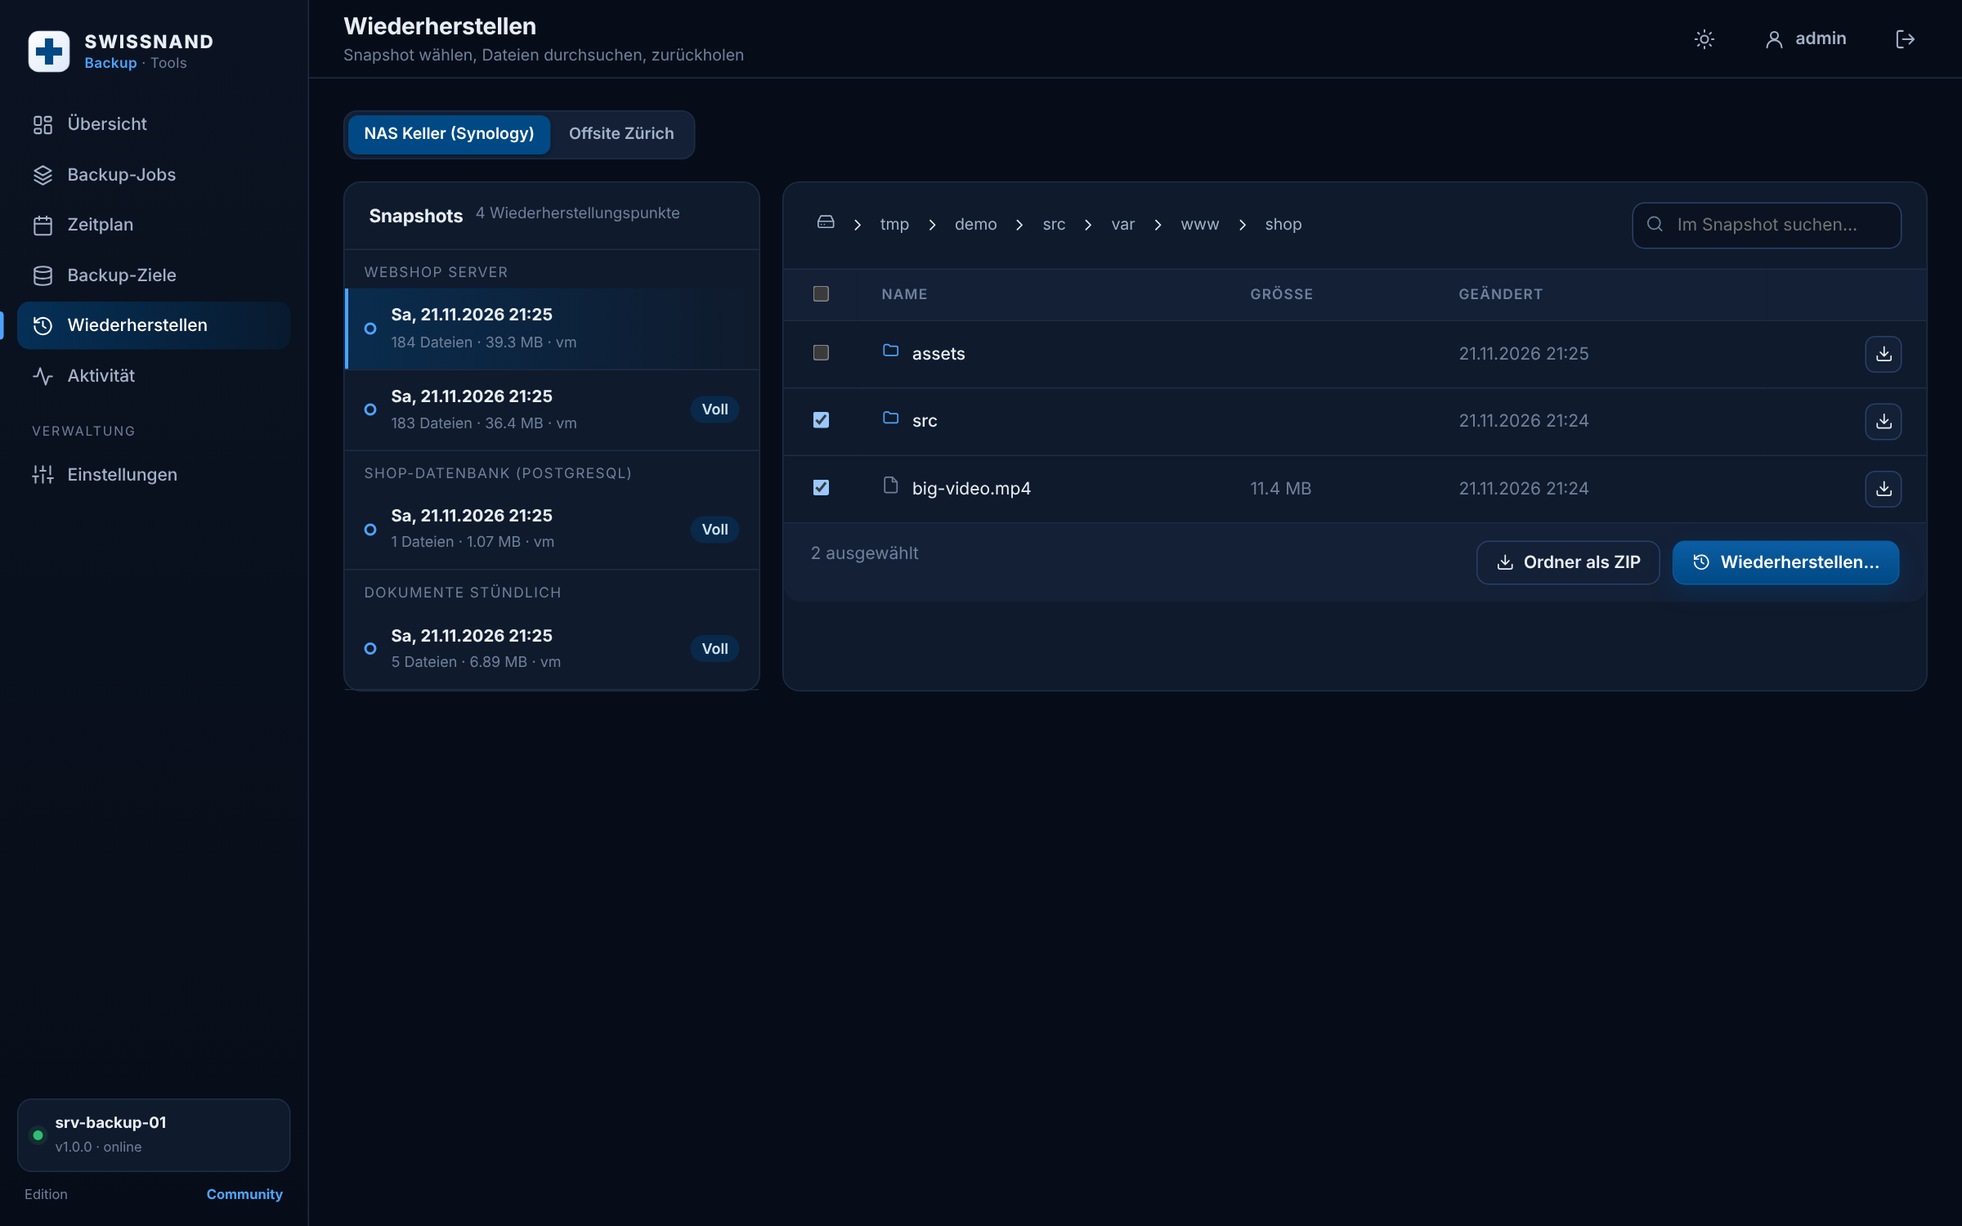
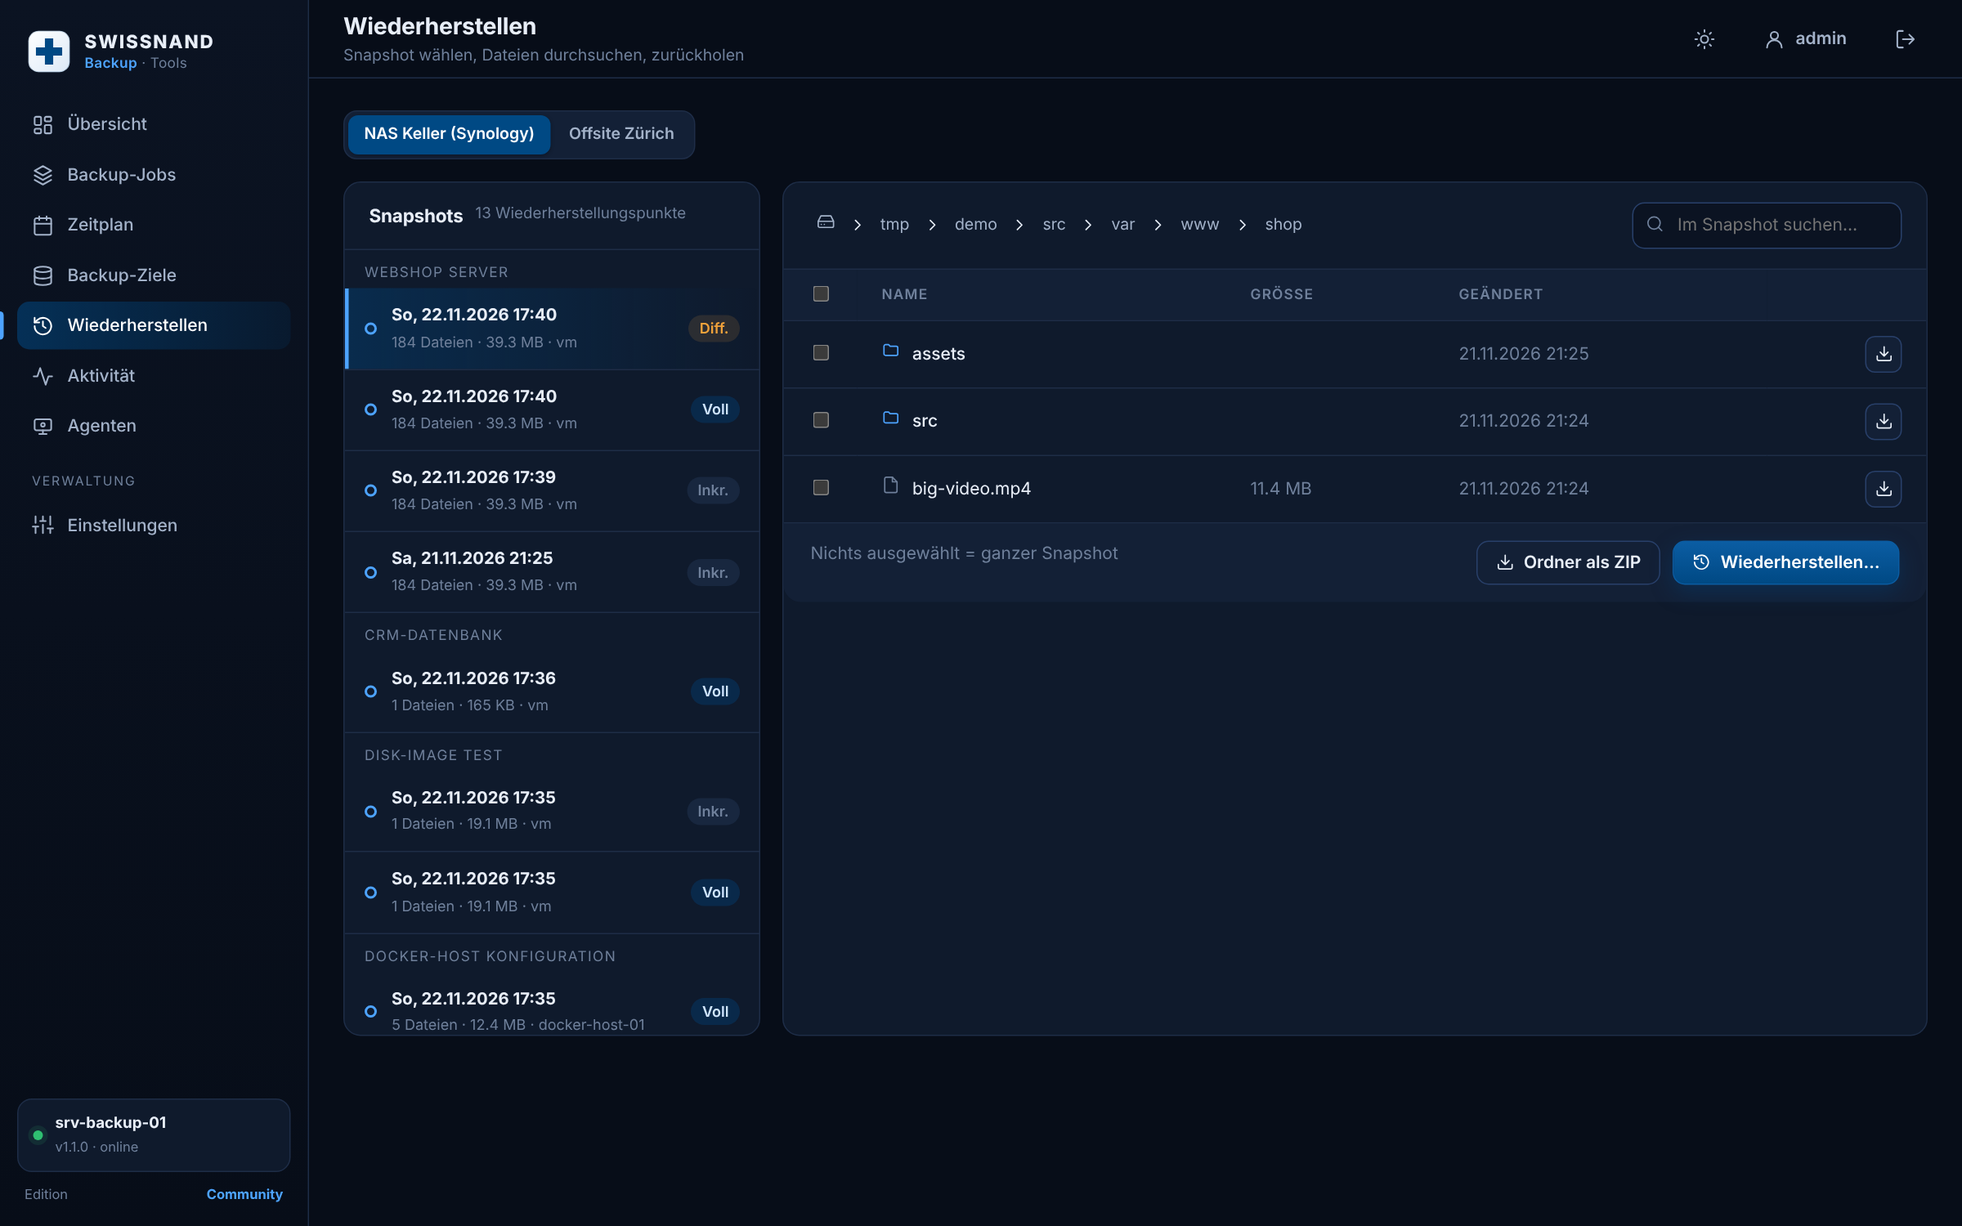
Backup-Modi: Vollbackup, inkrementell, differenziell
Claude-Session: https://claude.ai/code/session_01QtuMZ4hJmm3A6TxjFoHmLo

diff --git a/internal/server/web/app.js b/internal/server/web/app.js
@@ -609,8 +609,8 @@ async function openJobWizard(id, preset) {
       return `<h2>${job.type === 'copy' ? 'Quelle & Ziel der Kopie' : 'Backup-Ziel'}</h2><p class="lead">${job.type === 'copy' ? '3-2-1-Regel: 3 Kopien, 2 Medien, 1 Kopie ausser Haus. Die Daten werden für das Ziel neu verschlüsselt.' : 'Alle Daten werden vor dem Upload mit AES-256-GCM verschlüsselt.'}</p>
         <div class="section">${field(job.type === 'copy' ? 'Quell-Repository' : 'Ziel', sel(job, 'repoId', repoOpts, repoOpts[0]?.[0]))}
         ${job.type === 'copy' ? field('Ziel-Repository', sel(job, 'targetRepo', repoOpts, repoOpts[1]?.[0])) + field('Nur Snapshots dieses Jobs kopieren', sel(job, 'copyFilter', [['', 'Alle Jobs'], ...jobs.filter((x) => x.type === 'backup').map((x) => [x.id, x.name])])) : ''}</div>
-        ${job.type === 'backup' ? `<div class="section"><h4>${icon('zap', 'sm')}Backup-Modus</h4><div class="chips">${[['incremental', 'Forever-Incremental (empfohlen)'], ['full', 'Immer aktives Vollbackup']].map(([v, l]) => `<label class="chip"><input type="radio" name="options.mode" value="${v}"${(job.options.mode || 'incremental') === v ? ' checked' : ''}><span>${l}</span></label>`).join('')}</div>
-        <p class="muted" style="font-size:12.5px">Jeder Snapshot ist ein vollständiger Wiederherstellungspunkt (synthetisches Vollbackup). Inkrementell liest nur geänderte Dateien, ein aktives Vollbackup liest alles neu.</p>
+        ${job.type === 'backup' ? `<div class="section"><h4>${icon('zap', 'sm')}Backup-Modus</h4><div class="types" style="grid-template-columns:repeat(3,1fr);margin-bottom:14px">${[['full', 'Vollbackup', 'Liest bei jedem Lauf alle Dateien neu und prüft sie. Am langsamsten, aber am gründlichsten.'], ['incremental', 'Inkrementell', 'Nur Änderungen seit dem letzten Lauf. Am schnellsten – empfohlen für tägliche oder stündliche Läufe.'], ['differential', 'Differenziell', 'Alle Änderungen seit dem letzten Vollbackup. Kombiniert mit einem wöchentlichen Vollbackup.']].map(([v, l, d]) => `<label class="type ${(job.options.mode || 'incremental') === v ? 'on' : ''}" style="padding:14px"><input type="radio" name="options.mode" value="${v}"${(job.options.mode || 'incremental') === v ? ' checked' : ''} data-rerender style="position:absolute;opacity:0"><b>${l}</b><span>${d}</span>${v === 'incremental' ? '<span class="badge brand tag">Empfohlen</span>' : ''}</label>`).join('')}</div>
+        <p class="muted" style="font-size:12.5px">Dank Deduplizierung ist <b>jeder</b> Snapshot ein vollständiger Wiederherstellungspunkt – es gibt keine Ketten, die beim Restore zusammengesetzt werden müssen, und ein beschädigtes Zwischenglied gefährdet keine späteren Backups. Gespeichert werden in allen Modi nur neue Datenblöcke.</p>
         ${field('Zusätzlich periodisches Vollbackup', sel(job, 'schedule.fullEvery', [['', 'Nie'], ['weekly:0', 'Jeden Sonntag'], ['weekly:6', 'Jeden Samstag'], ['monthly:1', 'Am 1. jedes Monats']]))}</div>` : ''}`;
     },
     Zeitplan: () => {
@@ -684,7 +684,7 @@ async function openJobWizard(id, preset) {
     wiz.innerHTML = `<div class="steps">${STEPS.map((s, i) => skip(i) ? '' : `<div class="step ${i === step ? 'on' : i < step ? 'done' : ''}" data-step="${i}"><span class="n">${i < step ? '✓' : i + 1}</span>${s}</div>`).join('')}</div><div class="wiz-body"><form id="wb">${views[name]()}</form></div>`;
     foot.innerHTML = `<button class="btn" data-close>Abbrechen</button><div style="flex:1"></div>${step > 0 ? `<button class="btn" id="wprev">${icon('chev', 'sm')}Zurück</button>` : ''}${step < STEPS.length - 1 ? `<button class="btn primary" id="wnext">Weiter</button>` : `<button class="btn primary" id="wsave">${icon('check', 'sm')}${id ? 'Speichern' : 'Job erstellen'}</button>`}`;
     if (step > 0) $('#wprev', foot).querySelector('svg').style.transform = 'rotate(180deg)';
-    $$('.type', wiz).forEach((el) => el.onclick = () => { typeKey = el.dataset.type; const t = TYPES[typeKey]; job.type = t.t; if (t.k) job.source.kind = t.k; render(); });
+    $$('.type[data-type]', wiz).forEach((el) => el.onclick = () => { typeKey = el.dataset.type; const t = TYPES[typeKey]; job.type = t.t; if (t.k) job.source.kind = t.k; render(); });
     $$('[data-step]', wiz).forEach((el) => el.onclick = () => { collect(); step = +el.dataset.step; render(); });
     $$('[data-rerender]', wiz).forEach((el) => el.onchange = () => { collect(); render(); });
     $$('[data-fill]', wiz).forEach((el) => el.onclick = () => { const f = $(`[name="${el.dataset.fill}"]`, wiz); f.value = el.dataset.val; f.dispatchEvent(new Event('input')); });
@@ -860,7 +860,7 @@ async function pgRestore(args) {
     $('#sc').textContent = snaps.length + ' Wiederherstellungspunkte';
     const groups = {};
     snaps.forEach((s) => { const k = s.jobName || s.kind; (groups[k] = groups[k] || []).push(s); });
-    $('#slist').innerHTML = snaps.length ? Object.entries(groups).map(([g, list]) => `<div style="padding:10px 16px 4px;font-size:11.5px;text-transform:uppercase;letter-spacing:.08em;color:var(--text-3)">${esc(g)}</div>` + list.map((s) => `<div class="snap ${cur && cur.id === s.id ? 'on' : ''}" data-snap="${s.id}"><span class="tl"></span><div class="grow"><b>${WD[new Date(s.time).getDay()]}, ${dt(s.time, true)}</b><span>${s.stats.files} Dateien · ${bytes(s.stats.bytes)} · ${s.host}${s.origin ? ' · Kopie' : ''}</span></div>${s.mode === 'full' ? '<span class="badge brand">Voll</span>' : ''}</div>`).join('')).join('') : `<div class="empty">Noch keine Snapshots</div>`;
+    $('#slist').innerHTML = snaps.length ? Object.entries(groups).map(([g, list]) => `<div style="padding:10px 16px 4px;font-size:11.5px;text-transform:uppercase;letter-spacing:.08em;color:var(--text-3)">${esc(g)}</div>` + list.map((s) => `<div class="snap ${cur && cur.id === s.id ? 'on' : ''}" data-snap="${s.id}"><span class="tl"></span><div class="grow"><b>${WD[new Date(s.time).getDay()]}, ${dt(s.time, true)}</b><span>${s.stats.files} Dateien · ${bytes(s.stats.bytes)} · ${s.host}${s.origin ? ' · Kopie' : ''}</span></div>${{ full: '<span class="badge brand">Voll</span>', differential: '<span class="badge warn">Diff.</span>', incremental: '<span class="badge">Inkr.</span>' }[s.mode] || ''}</div>`).join('')).join('') : `<div class="empty">Noch keine Snapshots</div>`;
     $$('[data-snap]').forEach((el) => el.onclick = () => { cur = snaps.find((s) => s.id === el.dataset.snap); path = ''; q = ''; picked.clear(); $$('.snap').forEach((x) => x.classList.toggle('on', x === el)); browse(); });
     if (cur) browse();
   };

diff --git a/internal/repo/backup.go b/internal/repo/backup.go
@@ -46,11 +46,14 @@ type BackupOptions struct {
 	ExcludeCaches     bool
 	OneFileSystem     bool
 	Full              bool // ignore parent: re-read every file ("active full")
-	Workers           int
-	Host, JobID       string
-	JobName, Kind     string
-	Tags              []string
-	Streams           []Stream
+	// Differential compares against the last FULL snapshot of the job
+	// instead of the last snapshot (classic differential backup).
+	Differential  bool
+	Workers       int
+	Host, JobID   string
+	JobName, Kind string
+	Tags          []string
+	Streams       []Stream
 	// ReadPath maps an original absolute path to the path that is actually
 	// read (used for VSS shadow copies / LVM snapshots). nil = identity.
 	ReadPath func(string) string
@@ -219,7 +222,8 @@ func (r *Repo) Backup(ctx context.Context, opt BackupOptions) (*Snapshot, error)
 	if !opt.Full {
 		if snaps, err := r.Snapshots(ctx); err == nil {
 			for _, s := range snaps {
-				if s.Host == opt.Host && s.JobID == opt.JobID && s.Kind == opt.Kind && s.Origin == "" {
+				if s.Host == opt.Host && s.JobID == opt.JobID && s.Kind == opt.Kind && s.Origin == "" &&
+					(!opt.Differential || s.Mode == "full" || s.Mode == "") {
 					if nodes, err := r.LoadTree(ctx, s); err == nil {
 						b.parent = make(map[string]*Node, len(nodes))
 						for _, n := range nodes {
@@ -228,7 +232,11 @@ func (r *Repo) Backup(ctx context.Context, opt BackupOptions) (*Snapshot, error)
 							}
 						}
 						parentID = s.ID
-						b.log("info", "Basis-Snapshot %s (%s) – nur Änderungen werden gelesen", s.ID[:8], s.Time.Local().Format("02.01.2006 15:04"))
+						if opt.Differential {
+							b.log("info", "Differenziell: Basis ist das letzte Vollbackup %s (%s)", s.ID[:8], s.Time.Local().Format("02.01.2006 15:04"))
+						} else {
+							b.log("info", "Inkrementell: Basis-Snapshot %s (%s) – nur Änderungen seit dem letzten Lauf werden gelesen", s.ID[:8], s.Time.Local().Format("02.01.2006 15:04"))
+						}
 					}
 					break
 				}
@@ -293,6 +301,9 @@ func (r *Repo) Backup(ctx context.Context, opt BackupOptions) (*Snapshot, error)
 	b.stats.StoredBytes += b.tw.stored
 	b.stats.DurationMs = time.Since(start).Milliseconds()
 	mode := "incremental"
+	if opt.Differential {
+		mode = "differential"
+	}
 	if opt.Full || parentID == "" {
 		mode = "full"
 	}

diff --git a/cmd/snbackup/main.go b/cmd/snbackup/main.go
@@ -421,7 +421,8 @@ func cmdBackup(args []string) {
 	fs.Var(&ex, "exclude", "Ausschlussmuster (mehrfach)")
 	exFile := fs.String("exclude-file", "", "Datei mit Ausschlussmustern")
 	fs.Var(&tags, "tag", "Tag (mehrfach)")
-	full := fs.Bool("full", false, "Aktives Vollbackup")
+	full := fs.Bool("full", false, "Vollbackup: alle Dateien neu lesen")
+	diff := fs.Bool("differential", false, "Differenziell: Änderungen seit dem letzten Vollbackup")
 	oneFS := fs.Bool("one-file-system", false, "Nicht in andere Dateisysteme wechseln")
 	caches := fs.Bool("exclude-caches", false, "Ordner mit CACHEDIR.TAG ausschliessen")
 	larger := fs.Int("exclude-larger-than", 0, "Dateien grösser als N MB ausschliessen")
@@ -449,7 +450,7 @@ func cmdBackup(args []string) {
 		die(err)
 	}
 	defer lk.Unlock()
-	opt := repo.BackupOptions{Paths: paths, Excludes: ex, Full: *full, OneFileSystem: *oneFS, ExcludeCaches: *caches, Workers: *workers, JobID: *job, JobName: *job, Tags: tags, Progress: progressPrinter(),
+	opt := repo.BackupOptions{Paths: paths, Excludes: ex, Full: *full, Differential: *diff && !*full, OneFileSystem: *oneFS, ExcludeCaches: *caches, Workers: *workers, JobID: *job, JobName: *job, Tags: tags, Progress: progressPrinter(),
 		Log: func(level, msg string) {
 			if level != "info" {
 				fmt.Fprintln(os.Stderr, "\r\x1b[K"+c("33", "! ")+msg)
@@ -494,9 +495,10 @@ func cmdSnapshots(args []string) {
 		die(err)
 	}
 	tw := tabwriter.NewWriter(os.Stdout, 0, 0, 2, ' ', 0)
-	fmt.Fprintln(tw, bold("ID\tZEIT\tHOST\tJOB\tART\tDATEIEN\tGRÖSSE\tPFADE"))
+	fmt.Fprintln(tw, bold("ID\tZEIT\tHOST\tJOB\tART\tMODUS\tDATEIEN\tGRÖSSE\tNEU\tPFADE"))
+	modes := map[string]string{"full": "voll", "incremental": "inkrementell", "differential": "differenziell"}
 	for _, s := range snaps {
-		fmt.Fprintf(tw, "%s\t%s\t%s\t%s\t%s\t%d\t%s\t%s\n", s.ID[:8], s.Time.Local().Format("02.01.2006 15:04"), s.Host, s.JobName, s.Kind, s.Stats.Files, human(s.Stats.Bytes), strings.Join(s.Paths, ", "))
+		fmt.Fprintf(tw, "%s\t%s\t%s\t%s\t%s\t%s\t%d\t%s\t%s\t%s\n", s.ID[:8], s.Time.Local().Format("02.01.2006 15:04"), s.Host, s.JobName, s.Kind, modes[s.Mode], s.Stats.Files, human(s.Stats.Bytes), human(s.Stats.NewBytes), strings.Join(s.Paths, ", "))
 	}
 	tw.Flush()
 	fmt.Println(dim(fmt.Sprintf("%d Snapshots", len(snaps))))

diff --git a/internal/repo/modes_test.go b/internal/repo/modes_test.go
@@ -1,0 +1,59 @@
+package repo
+
+import (
+	"context"
+	"os"
+	"path/filepath"
+	"testing"
+	"time"
+
+	"github.com/swissnand/snbackup/internal/backend"
+)
+
+// Full → incremental → differential: the differential run must compare
+// against the last full backup, the incremental run against the last run.
+func TestBackupModes(t *testing.T) {
+	ctx := context.Background()
+	dir := t.TempDir()
+	src := filepath.Join(dir, "src")
+	a := filepath.Join(src, "a.txt")
+	b := filepath.Join(src, "b.txt")
+	mkfile(t, a, 1000)
+	mkfile(t, b, 1000)
+	be, _ := backend.NewLocal(filepath.Join(dir, "repo"))
+	r, err := Init(ctx, be, "passwort-123456")
+	if err != nil {
+		t.Fatal(err)
+	}
+	opt := BackupOptions{Paths: []string{src}, JobID: "j"}
+	touch := func(p string) {
+		time.Sleep(20 * time.Millisecond)
+		mkfile(t, p, 1000)
+	}
+	full, _ := r.Backup(ctx, BackupOptions{Paths: opt.Paths, JobID: "j", Full: true})
+	if full.Mode != "full" {
+		t.Fatalf("mode %s", full.Mode)
+	}
+	touch(a)
+	inc, _ := r.Backup(ctx, opt)
+	if inc.Mode != "incremental" || inc.Stats.ChangedFile != 1 || inc.Parent != full.ID {
+		t.Fatalf("incremental: %s %+v", inc.Mode, inc.Stats)
+	}
+	touch(b)
+	inc2, _ := r.Backup(ctx, opt)
+	if inc2.Stats.ChangedFile != 1 || inc2.Parent != inc.ID {
+		t.Fatalf("incremental 2: %+v", inc2.Stats)
+	}
+	diff, _ := r.Backup(ctx, BackupOptions{Paths: opt.Paths, JobID: "j", Differential: true})
+	if diff.Mode != "differential" || diff.Parent != full.ID || diff.Stats.ChangedFile != 2 {
+		t.Fatalf("differential: %s parent=%s %+v", diff.Mode, diff.Parent, diff.Stats)
+	}
+	// Every snapshot restores completely on its own.
+	out := filepath.Join(dir, "out")
+	if _, err := r.Restore(ctx, diff, RestoreOptions{Target: out, Verify: true}); err != nil {
+		t.Fatal(err)
+	}
+	if _, err := os.Stat(filepath.Join(out, StoreName(b))); err != nil {
+		t.Fatal(err)
+	}
+}

diff --git a/internal/jobs/execute.go b/internal/jobs/execute.go
@@ -243,7 +243,7 @@ func (rc *runCtx) backup(ctx context.Context) (*outcome, error) {
 
 		opt := repo.BackupOptions{
 			Paths: j.Source.Paths, Excludes: j.Source.Excludes, ExcludeCaches: j.Source.ExcludeCaches,
-			OneFileSystem: j.Source.OneFileSystem, Full: rc.full, Workers: j.Options.Workers,
+			OneFileSystem: j.Source.OneFileSystem, Full: rc.full, Differential: !rc.full && j.Options.Mode == "differential", Workers: j.Options.Workers,
 			JobID: j.ID, JobName: j.Name, Kind: j.Source.Kind, Tags: j.Options.Tags,
 			Progress: rc.progress, Log: rc.log,
 		}
@@ -270,7 +270,8 @@ func (rc *runCtx) backup(ctx context.Context) (*outcome, error) {
 		}
 		st := snap.Stats
 		rc.logf2("info", "Snapshot %s: %d Dateien, %s gesamt, %s neu, %s übertragen", snap.ID[:8], st.Files, human(st.Bytes), human(st.NewBytes), human(st.StoredBytes))
-		out = &outcome{snapshot: snap.ID, stats: &st, message: fmt.Sprintf("%d Dateien · %s neu", st.Files, human(st.NewBytes))}
+		modeName := map[string]string{"full": "Vollbackup", "incremental": "inkrementell", "differential": "differenziell"}[snap.Mode]
+		out = &outcome{snapshot: snap.ID, stats: &st, message: fmt.Sprintf("%s · %d Dateien · %s neu", modeName, st.Files, human(st.NewBytes))}
 		release()
 		if !j.Retention.Empty() {
 			rc.phase("Aufbewahrung anwenden")

diff --git a/README.md b/README.md
@@ -32,6 +32,7 @@
 
 | Bereich | Möglichkeiten |
 |---|---|
+| **Backup-Modi** | **Vollbackup** (alles neu lesen), **inkrementell** (Änderungen seit dem letzten Lauf), **differenziell** (Änderungen seit dem letzten Vollbackup), kombinierbar mit automatischem Vollbackup wöchentlich/monatlich. Jeder Snapshot ist dank Deduplizierung ein vollständiger Wiederherstellungspunkt, ohne Ketten |
 | **Zentraler Backup-Server** | Agenten für Linux, Windows, Docker und Kubernetes (DaemonSet). Nur ausgehende HTTPS-Verbindungen, Registrierung per Einmal-Token, Zertifikats-Pinning. Jobs pro Rechner zuweisen, live verfolgen, abbrechen, Wiederherstellung direkt auf den Zielrechner. Agentenlos für Netzfreigaben und Datenbanken übers Netz |
 | **VMs & Bare Metal** | **Proxmox VE** (vzdump-Stream, dedupliziert), **Hyper-V** (Export-VM im laufenden Betrieb), **Disk-Images** von Disks und LVM-Volumes (optional per LVM-Snapshot), **Windows Bare Metal** über Windows Server-Sicherung |
 | **Backup-Varianten** | Datei-Backup (forever-incremental), aktives Vollbackup, periodisches Vollbackup (wöchentlich/monatlich), synthetische Vollbackups, **Spiegelung/Sync** mit Papierkorb, **Archiv** (.tar.gz, optional AES-256), **Backup-Kopie 3-2-1** auf ein zweites Ziel, **Integritätsprüfung**, **Bereinigung** |
@@ -66,6 +67,7 @@ Details zum Format und zum Melden von Sicherheitslücken: [SECURITY.md](SECURITY
 |---|---|
 | ![Agenten](docs/screenshots/16-agenten.png) **Agenten im ganzen Netz** | ![Agent hinzufügen](docs/screenshots/17-agent-hinzufuegen.png) **Agent hinzufügen: Linux, Windows, Docker, Kubernetes** |
 | ![Jobs](docs/screenshots/03-jobs.png) **Backup-Jobs pro Rechner** | ![Assistent](docs/screenshots/04-assistent-typ.png) **Job-Assistent: 14 Varianten** |
+| ![Modi](docs/screenshots/04d-assistent-modus.png) **Voll, inkrementell, differenziell** | ![Restore](docs/screenshots/09-wiederherstellen.png) **Snapshots mit Modus** |
 | ![Proxmox](docs/screenshots/04c-assistent-proxmox.png) **Proxmox-VMs über den Agent** | ![Kubernetes](docs/screenshots/17b-agent-kubernetes.png) **Kubernetes-DaemonSet** |
 | ![Zeitplan im Assistenten](docs/screenshots/05-assistent-zeitplan.png) **Zeitplan mit Vorschau** | ![Aufbewahrung](docs/screenshots/05b-assistent-aufbewahrung.png) **GFS-Aufbewahrung** |
 | ![Kalender](docs/screenshots/06-zeitplan.png) **Wochenkalender** | ![Aktivität](docs/screenshots/07-aktivitaet.png) **Live-Fortschritt & Verlauf** |
@@ -152,6 +154,8 @@ snbackup job history
 export SNB_REPO=/mnt/nas/backup           # oder s3:https://s3.wasabisys.com/bucket/srv1, webdav:https://…, rclone:nas:backup
 snbackup init
 snbackup backup /etc /home /var/www --exclude node_modules --exclude '*.tmp' --tag produktion
+snbackup backup /srv --full            # Vollbackup
+snbackup backup /srv --differential    # seit dem letzten Vollbackup
 pg_dump -Fc shop | snbackup backup --stdin-name shop.dump
 snbackup snapshots
 snbackup ls latest /var/www

diff --git a/docs/HANDBUCH.md b/docs/HANDBUCH.md
@@ -81,8 +81,13 @@ Agent ──Daten (verschlüsselt)──► Ziel (NAS, S3, WebDAV …)
 
 ## Backup-Varianten
 
+In allen drei Modi werden nur neue Datenblöcke gespeichert, und jeder Snapshot lässt sich allein vollständig wiederherstellen. Der Modus bestimmt, **welche Dateien gelesen und geprüft** werden. Das beeinflusst Laufzeit, Last auf der Quelle und wie früh stille Datenfehler auffallen.
+
 | Variante | Beschreibung | Typischer Einsatz |
 |---|---|---|
+| **Modus Vollbackup** | Alle Dateien werden gelesen und geprüft | Wöchentlich oder monatlich |
+| **Modus inkrementell** | Nur Dateien, die seit dem **letzten Lauf** geändert wurden (Grösse, Änderungszeit, Inode) | Täglich, stündlich |
+| **Modus differenziell** | Alle Dateien, die seit dem **letzten Vollbackup** geändert wurden. Gibt es noch keines, wird zuerst eines erstellt | Täglich, kombiniert mit wöchentlichem Vollbackup |
 | **Datei-Backup, forever-incremental** | Nur geänderte Dateien werden gelesen (Grösse, Änderungszeit, Inode). Jeder Snapshot ist trotzdem vollständig | Standard für Server |
 | **Aktives Vollbackup** | Alle Dateien werden neu gelesen und geprüft (Option *Modus* oder *Vollbackup*-Knopf) | Periodisch, z. B. sonntags |
 | **Periodisches Vollbackup** | Automatisch wöchentlich oder monatlich ein aktives Vollbackup | Zusätzliche Sicherheit |
@@ -169,7 +174,7 @@ snbackup service       install|uninstall|status [--agent]
 snbackup job           list | run <name> [--full] | history [name]
 snbackup user reset    <name>
 snbackup init          --repo R
-snbackup backup        --repo R [--exclude P] [--exclude-file F] [--tag T] [--full] [--one-file-system]
+snbackup backup        --repo R [--full | --differential] [--exclude P] [--exclude-file F] [--tag T] [--full] [--one-file-system]
                        [--exclude-caches] [--exclude-larger-than MB] [--compression off|fast|auto|max]
                        [--workers N] [--limit-upload KB/s] [--stdin-name NAME] pfade…
 snbackup snapshots     --repo R
